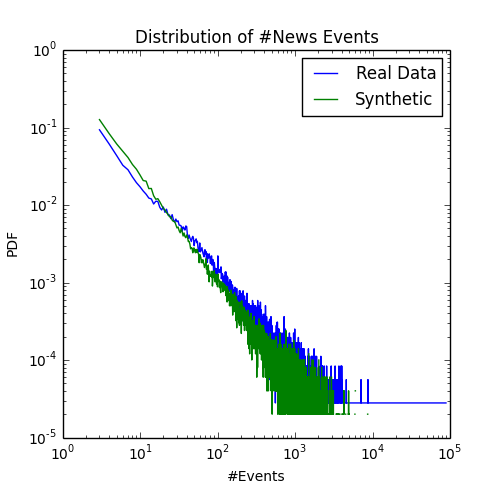
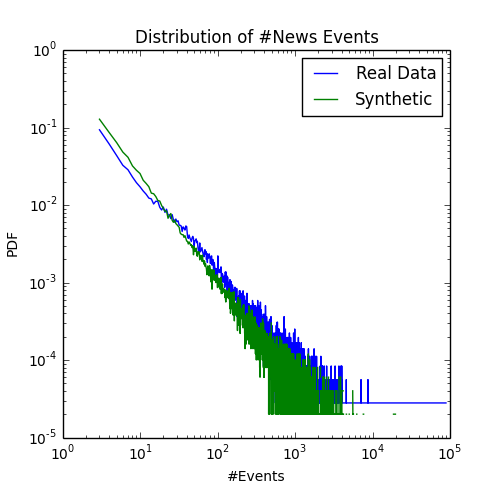
edit

diff --git a/powerlaw_synthetic_parallel.py b/powerlaw_synthetic_parallel.py
@@ -1,0 +1,77 @@
+# coding: utf-8
+
+import pandas as pd
+import matplotlib.pyplot as plt
+import matplotlib
+import numpy as np
+
+df = pd.read_csv("./news_events_powerlaw.csv")
+df["bucket"] = df["bucket"] + 1
+
+def ksdistance(f1, f2):    
+    cdf_f1 = [0.0]
+    cdf_f2 = [0.0]
+    for i in range(len(f1)):
+        cdf_f1.append(cdf_f1[-1] + f1[i])
+        cdf_f2.append(cdf_f2[-1] + f2[i])
+    #print zip(cdf_f1, cdf_f2)
+    tmplist = []
+    for i in range(len(f1)+1):
+        tmplist.append( float(abs(cdf_f1[i] - cdf_f2[i])) )
+    return max(tmplist)
+
+def bestgamma(degrees, thelist, kmin):
+    gamma = -1
+    est_tmp, est_n = 0, 0
+    for j, p_j in zip(degrees[kmin:], thelist[kmin:]):
+        f_j = p_j
+        est_tmp +=  f_j * np.log( 1.0 * j / (degrees[kmin] - 0.5) )
+        est_n += f_j 
+    gamma = 1.0 + est_n / est_tmp
+    
+    #Eq. (2.5) in the paper "Power-law distributions in empirical data"
+    C = 1.0 / sum([np.power(i,-gamma) for i in degrees[kmin:]]) 
+    return gamma, C
+
+def ideal(degrees, gammaval, C, kmin, m):
+    tmp = np.zeros(len(degrees))
+    for i, deg in zip(range(kmin,m,1), degrees[kmin:m]):
+      tmp[i] = C * np.power(deg, -gammaval)
+    return tmp
+
+# set the lower bound
+kmin = 2
+
+gamma, C = bestgamma(df["bucket"], df["pdf"], kmin)
+print "Fitting results:", gamma, C
+f2 = ideal(df["bucket"], gamma, C, kmin, df.shape[0])
+df['f2'] = pd.Series(f2, index=df.index)
+
+# we just plot the part which has been used for fitting
+df["pdf4fit"] = df["pdf"]
+df["pdf4fit"][:kmin] = 0
+df["pdf4fit"] = df["pdf4fit"] / (df["pdf4fit"].sum())
+df.head()
+
+print ksdistance(df["pdf4fit"], df["f2"])
+
+# the fitted distribution
+import struct
+
+def synthetic(degrees, f2):
+    np.random.seed(None)
+    tmp = np.zeros(df.shape[0])
+    for i in range(5000):
+        deg = np.random.choice(degrees, p=f2)
+        tmp[deg] += 1
+    tmp = tmp / tmp.sum()
+    return tmp
+
+from joblib import Parallel, delayed
+
+ks_list = []
+def ks_list(df):
+    f3 = synthetic(df.index, df['f2'])
+    return ksdistance(df["pdf4fit"], f3) 
+
+print Parallel(n_jobs=-1)(delayed(ks_list)(df) for _ in range(2500))

diff --git a/README.md b/README.md
@@ -2,19 +2,23 @@
 
 This is an example showing how we can validate the hypothesis that a distribution follows the power-law. For more details from the theoretical aspects, please refer to the paper "Power-law distributions in empirical data." by Clauset et al. or our slides attached in this github repo.
 
+## Organization
+1. The python code is in `powerlaw.ipynb`. 
+2. The specific steps are explained in the slides `Plotting_Power_laws_and_the_Degree_Exponent.pdf`.
+3. The output figures are in `powerlaw_report.pdf`. We also consider the log-logistic distribution.
+4. The parallelized synthetic data generation code can be found at `powerlaw_synthetic_parallel.py`. 
 
-* The python code is in `powerlaw.ipynb`. 
-* The steps are explained in the slides `Plotting_Power_laws_and_the_Degree_Exponent.pdf`.
-* The output figures are in `powerlaw_report.pdf`. 
-
-Inline-style: 
-![alt text](https://github.com/xiaoylu/check-if-power-law/blob/master/figures/fit.png "The slope in double logarithm scale is the exponent of the power-law. KS distance measure the "distance" of the real data and obtained model. $K_min=2$")
-
+## Figures 
 ![alt text](https://github.com/xiaoylu/check-if-power-law/blob/master/figures/scatter.png "Distribtuion of the real data.")
 
-![alt text](https://github.com/xiaoylu/check-if-power-law/blob/master/figures/synthetic.png "Using the obtained model, we generate synthetic sequences, which are used to evaluate the goodness of fit.")
+The slope in double logarithm scale is the exponent of the power-law. KS distance measure the "distance" of the real data and obtained model. $K_min=2$:
+![alt text](https://github.com/xiaoylu/check-if-power-law/blob/master/figures/fit.png "Fit the data")
 
-![alt text](https://github.com/xiaoylu/check-if-power-law/blob/master/figures/pvalue.png "The p-value is exactly the portion of synthetic sequences whose KS distance is larger than the real data's. When p-value is large enough, >10% in most cases, we can say the Power-law is a plausible fit to the real data.")
+Using the obtained model, we generate synthetic sequences, which are used to evaluate the goodness of fit.
+![alt text](https://github.com/xiaoylu/check-if-power-law/blob/master/figures/synthetic.png "synthetic sequences")
+
+The p-value is exactly the portion of synthetic sequences whose KS distance is larger than the real data's. When p-value is large enough, >10% in most cases, we can say the Power-law is a plausible fit to the real data.
+![alt text](https://github.com/xiaoylu/check-if-power-law/blob/master/figures/pvalue.png "pvalue")
 
 
 
